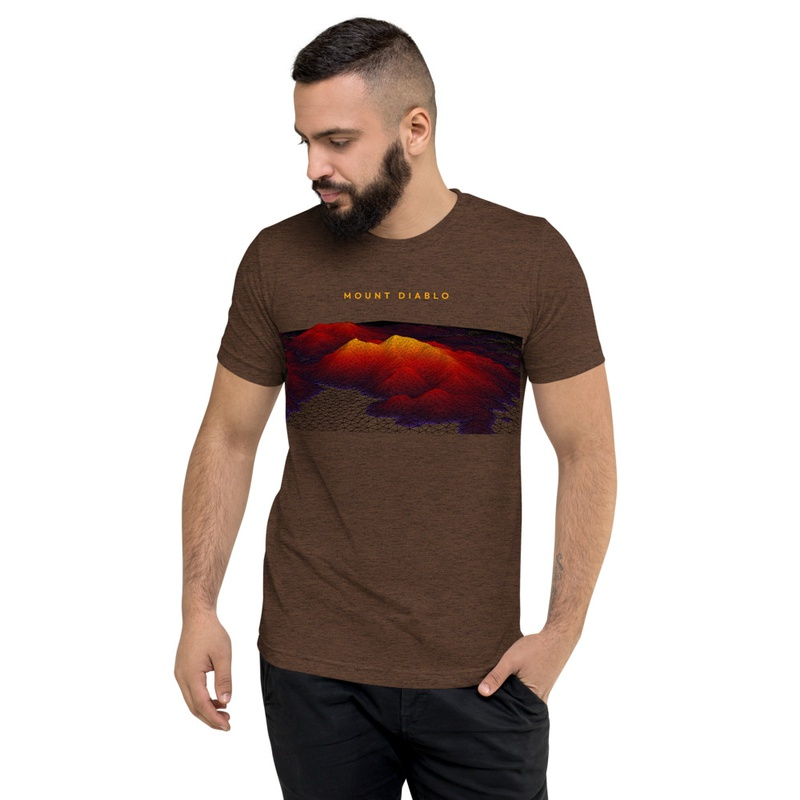
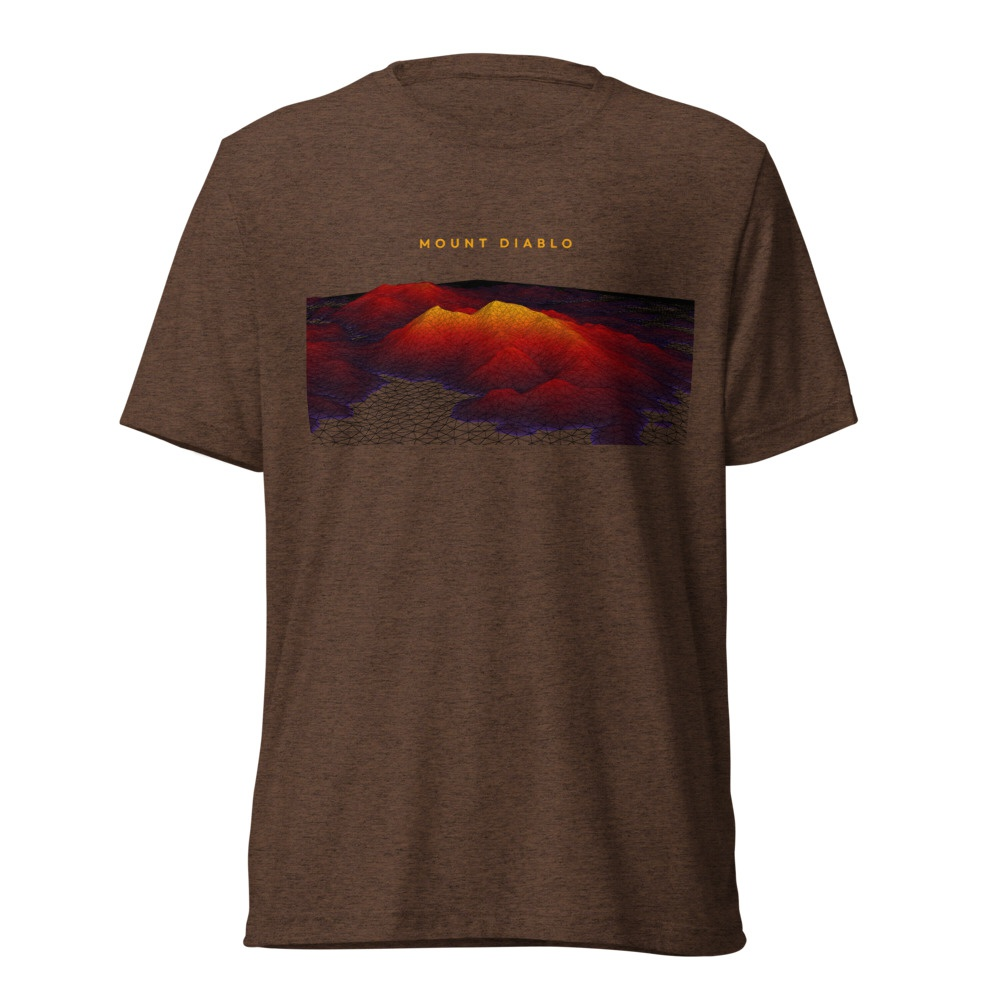
Add 2000px colorway model mockups and flat shirt mockup for Mount Diablo

diff --git a/sync_to_stripe.py b/sync_to_stripe.py
@@ -128,7 +128,13 @@ PRODUCT_METADATA = {
         "display_name": "Mount Diablo Topographic Wireframe Elevation Graphic T-Shirt",
         "tag": "California Peaks · Direct Print-on-Demand",
         "description": "Intricate 3D terrain wireframe in vivid heat-map slopes on premium tri-blend tees.",
-        "model_prefix": "model_diablo"
+        "model_prefix": "model_diablo",
+        "primary_color": "Brown Triblend",
+        "model_config": {
+            "option_group": "Men's 3",
+            "option": "Front",
+            "top": 300
+        }
     }
 }
 
@@ -290,10 +296,11 @@ def sync_model_mockups(pid, prod_slug, variants, color_groups, custom_meta, exis
 
     # Ensure primary model image exists
     if not os.path.exists(primary_path) and color_model_images:
-        first_color_model = list(color_model_images.values())[0]
-        first_path = os.path.join(BASE_DIR, first_color_model.lstrip("/"))
-        if os.path.exists(first_path):
-            with open(first_path, "rb") as fi, open(primary_path, "wb") as fo:
+        pref_color = custom_meta.get("primary_color")
+        chosen_color_model = color_model_images.get(pref_color) if (pref_color and pref_color in color_model_images) else list(color_model_images.values())[0]
+        chosen_path = os.path.join(BASE_DIR, chosen_color_model.lstrip("/"))
+        if os.path.exists(chosen_path):
+            with open(chosen_path, "rb") as fi, open(primary_path, "wb") as fo:
                 fo.write(fi.read())
 
     has_primary = os.path.exists(primary_path) and os.path.getsize(primary_path) > 0
